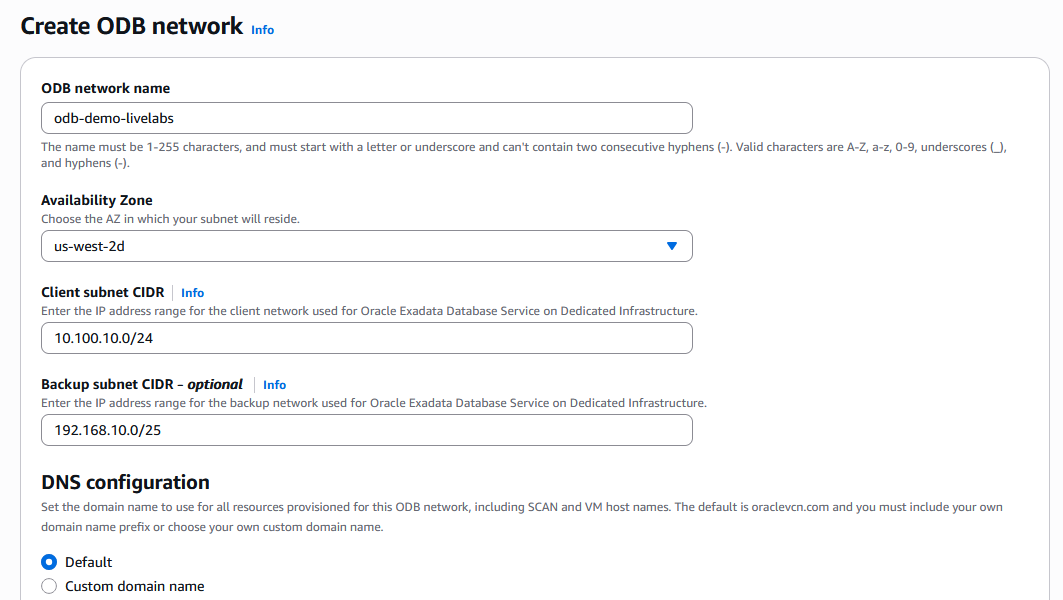
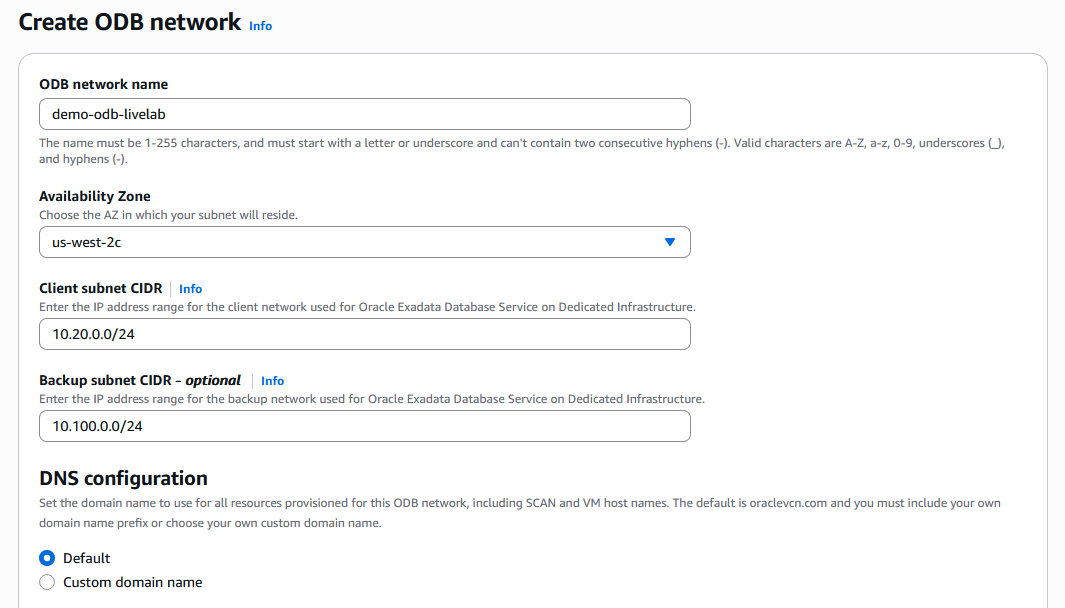
work 4

Changed region(s): [[0.031, 0.12, 0.9624, 0.99], [0.0, 0.0, 0.2794, 0.06]]

diff --git a/oci-db-at-aws-nw/lab1/lab1.md b/oci-db-at-aws-nw/lab1/lab1.md
@@ -35,9 +35,10 @@ Click on **Dashboard** to get access to the Service.
 3. In the create menu, input the following:
 
 * the ODB Network name.
-* select the Availability Zone. Note: The the AZ drop-down menu you will only see the AWS Zones where the service is available, within the selected region.
+* select the Availability Zone. Note: The the AZ drop-down menu you will only see the AWS Zones where the service is available, within the selected region. I will use **us-west-2c** for this lab.
 * Client subnet CIDR: input an IP CIDR range which will be used by the service for deploying the database interfaces to which you will connect your applications. This has to be a non-overlapping, routable CIDR from your network.
 * Backup subnet CIDR: input an IP CIDR range which will be used by the service for deploying the database interfaces which will be used for the backup service. This has to be a non-overlapping CIDR from your network. 
+    * Note that the **Client CIDR** and the **Backup CIDR** have to be part of the same RFC1918 space (ex: 10/8). 
 * DNS Configuration: input a private DNS Zone in which the database will be deployed. There are 2 options:
     * Default: Oracle will generate a private DNS Zone ending with **oraclevcn.com**. We will use this option for this deployment.
     * Custom domain name: you can deploy the databases in any private zone that you want.
@@ -48,40 +49,19 @@ Note: it can take up to 1 hour for the ODB Network deployment to complete. You c
 
 ## Task 2: Create the AWS VPC
 
-  Now that we have a VCN and a Subnet, we need to add a VCN Route Table and a Security List to that subnet. While the default ones, deployed automatically by OCI, can be used, it is recommended to have dedicated ones.
+  The ODB Network must be peered to an AWS VPC for any connectivitty to be available. We will deploy a VPC which will act as a connection point between the AWS Transit Gateway (deployed in the next lab) and the ODB Network. 
 
-1. On the VCN Details page, on the left menu, click **Route Tables** and then click on **Create Route Table**.
-  ![Create route table1](images/creatert1.png)
+1. In the AWS Console, search for the VPC menu and press **Create VPC**. 
+  ![Create VPC menu](images/presscreatevpc.png)
 
-   In the menu that opens, give this route table a name and press **Create**. No routes are needed at this step of the lab.
-  ![Create route table2](images/creatert2.png)
+   In the menu that opens, give the VPC a name and an IPv4 CIDR. I will name it **TransitVPC**.
+  ![Create VPC details](images/createvpcdetails.png)
 
 2. On the VCN Details page, on the left menu, click **Subnets** and then click on the Firewall subnet created earlier.
   ![Click subnet](images/clicksubnet.png)
 
    In the menu that opens (subnet details), click **Edit**. In the new menu, replace the default Route Table with the one previously created and save the changes.
   ![Replace Route Table](images/subnetrt.png)
-
-3. On the VCN Details page, on the left menu, click **Security Lists** and then click on **Create Security List**.
-  ![Create sec list1](images/createsl.png)
-
-   In the menu that opens, give it a name and press **+Another Ingress Rule** and **+Another Egress Rule**.
-  ![Create sec list2](images/addrule1.png)
-
-   In the rule menus that open, create an entry that allows **0.0.0.0/0** on Ingress and Egress, respectively. 
-  ![Create sec list3](images/ingressrule.png)
-  ![Create sec list4](images/egressrule.png)
-  
-  Press **Create Security List**. 
-
-4. On the VCN Details page, on the left menu, click **Subnets** and then click on the Firewall subnet created earlier.
-  ![Click subnet2](images/clicksubnet.png)
-
-   In the menu that opens (subnet details), click **Add Security List** and add the new one we created.
-  ![Add sec list](images/addsl.png)
-
-   Next, remove the Default Security List by clicking on the 3 **dots** at the end of the row, and clicking **Remove**.
-  ![Remove sec list](images/removesl.png)
 
 ## Task 3: Create the ODB Peering
 
